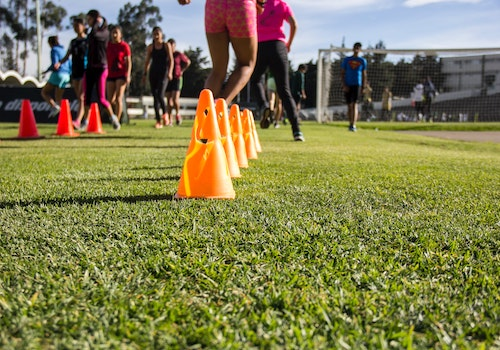
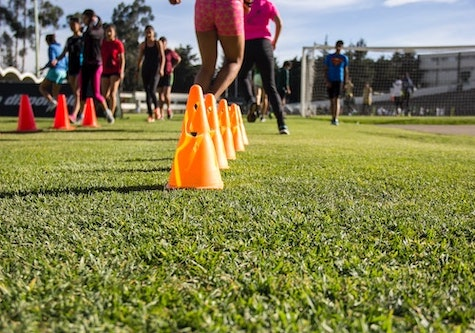
changes to hero background

diff --git a/index.html b/index.html
@@ -182,7 +182,7 @@
                   and even potential career opportunities.</p>
             </div>
             <div class="icon-box mt-5" data-aos="zoom-in" data-aos-delay="150">
-              <i class="bx ri-bar-chart-box-line"></i>
+              <i class="bx bx-chevron-right"></i>
               <h4>Skill Development</h4>
               <p>The Hub provides access to experienced coaches and trainers who can offer 
                 personalized training programs to enhance players' skills and 

diff --git a/assets/css/style.css b/assets/css/style.css
@@ -328,23 +328,13 @@ h6 {
 #hero {
   width: 100% auto;
   height: 100vh auto;
-  background: url("../img/newbackgroundvid.mp4") top center;
+  background:url("../img/newbackgroundvid.mp4");
   background-size: cover;
   position: relative;
 }
+
 #hero-mobile{
   background: url("../img/newbackgroundvid.mp4") auto;
-}
-
-
-#hero:before {
-  content: "";
-  background: rgba(0, 0, 0, 0.6);
-  position: absolute;
-  bottom: 0;
-  top: 0;
-  left: 0;
-  right: 0;
 }
 
 #hero .container {
